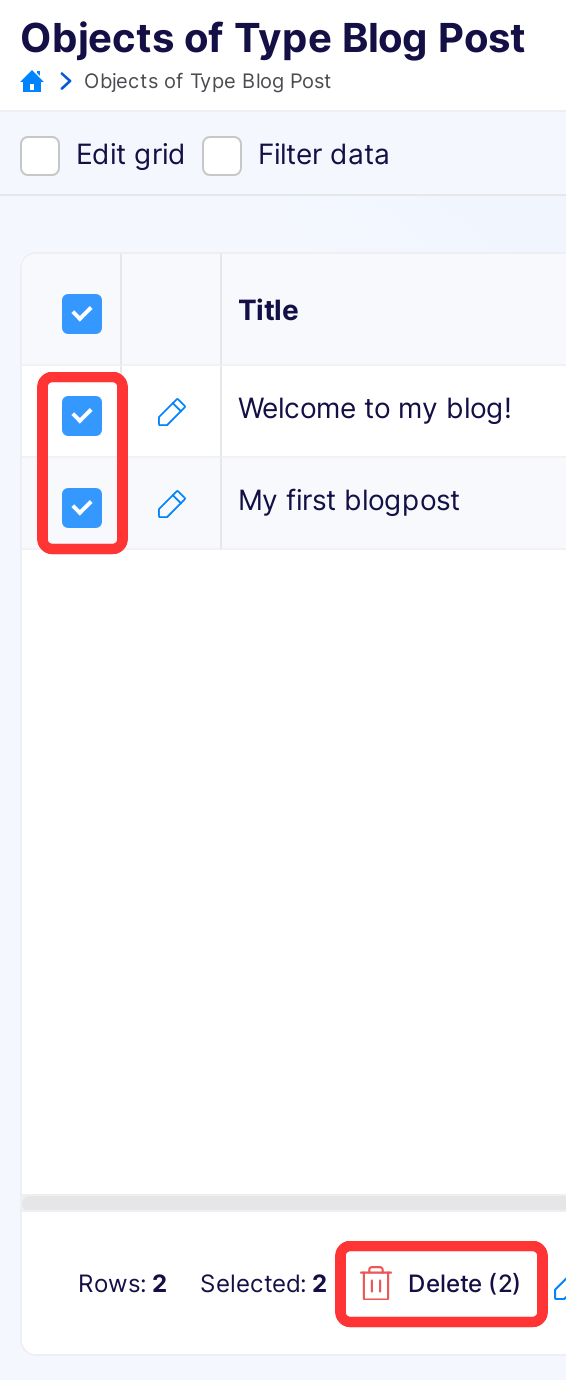
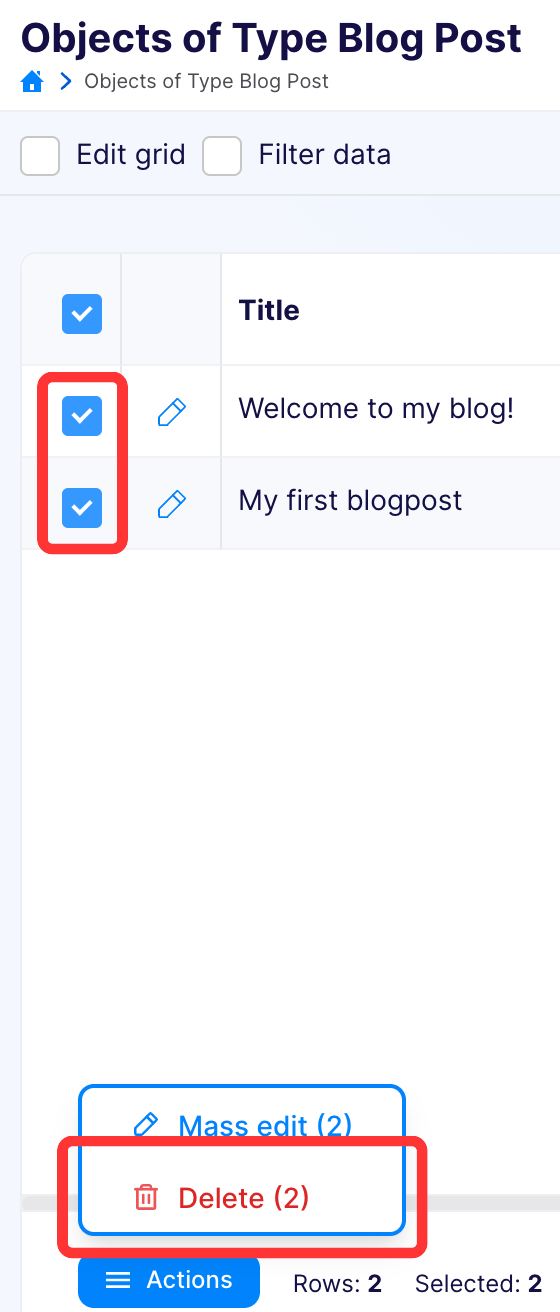
#26725 added batch publishing docs, updated images

diff --git a/docs/panel/ContentObjects/draft-public.md b/docs/panel/ContentObjects/draft-public.md
@@ -31,6 +31,13 @@ Below is a list of each status with a brief explanation:
     **In the Dashboard, all content types will be visible** regardless of their status, unlike in the API.
     Read more about [Draft & Public API](/docs/API/draft-public/draft-public).
 
+### Mass publishing
+In the content browser, objects of a type with draft & public mode enabled have access to bulk status change options.
+![GridBatchPublishingActionMenu.png](../images/GridBatchPublishingActionMenu.png){: .center .width75 .border}
+
+!!! Note
+    A bulk status change to, for example, `public` will move all selected objects to that state, regardless of their current status.
+
 ### Publishing content
 
 To make an object that satisfies all requirements available to all users, it must be made public.
@@ -40,6 +47,12 @@ This can be achieved by clicking the green **Publish** button located in the too
 
 !!! Note
     Now object  will have the status `public` and will be visible, by default in the [listing API](/docs/API/draft-public/draft-public).
+
+Or by selecting it on the content browser and clicking `Actions` and then `Publish` button:
+
+![GridMassPublish](../images/GridMassPublish.png){: .center .width75 .border}
+
+
 
 ### Unpublishing content
 
@@ -51,6 +64,11 @@ you can use the **Unpublish** button located in the Extras menu.
 !!! Note
     Now object will be reverted from `public` state into the `draft` and will not be visible, by default in the [listing API](/docs/API/draft-public/draft-public).
 
+Or by selecting it on the content browser and clicking `Actions` and then `Unpublish` button:
+
+![GridMassUnpublish.png](../images/GridMassUnpublish.png){: .center .width75 .border}
+
+
 ### Archiving content
 If you wish to archive the public version, withdrawing it from the public state and marking it as archived,
 you can use the **Archive** button located in the Extras menu.
@@ -59,3 +77,7 @@ you can use the **Archive** button located in the Extras menu.
 
 !!! Note
     Now object  will have the status `archive` and will not be visible, by default in the [listing API](/docs/API/draft-public/draft-public).
+
+Or by selecting it on the content browser and clicking `Actions` and then `Archive` button:
+
+![GridMassArchive.png](../images/GridMassArchive.png){: .center .width75 .border}

diff --git a/docs/panel/ContentObjects/index.md b/docs/panel/ContentObjects/index.md
@@ -36,12 +36,12 @@ You can delete the object either by clicking the `Delete` button on the edit obj
 
 ![](../images/co-form/EditButtons.png){: .center .width50 .border}
 
-Or by selecting it on the content browser and clicking the `Remove selected` button:
+Or by selecting it on the content browser and clicking the `Action` then `Delete` button:
 
 ![](../images/GridBatchDelete.png){: .center .width50 .border}
 
 !!! warning
-You can only remove objects that are not linked to any other object in the system.
+    You can only remove objects that are not linked to any other object in the system.
 
 ## Content versioning
 
@@ -52,7 +52,7 @@ To save older revisions, click on the version tile and click the `Save` button.
 ## Mass edit
 
 You can edit multiple object at the same time. To do that you need to select needed objects in grid and then click
-`Mass edit selected` button that appears at the bottom of the grid.
+`Mass edit selected` button that appears at `Actions` menu
 
 ![](../images/blogpost-grid-mass-edit.png){: .center .width50 .border}
 
